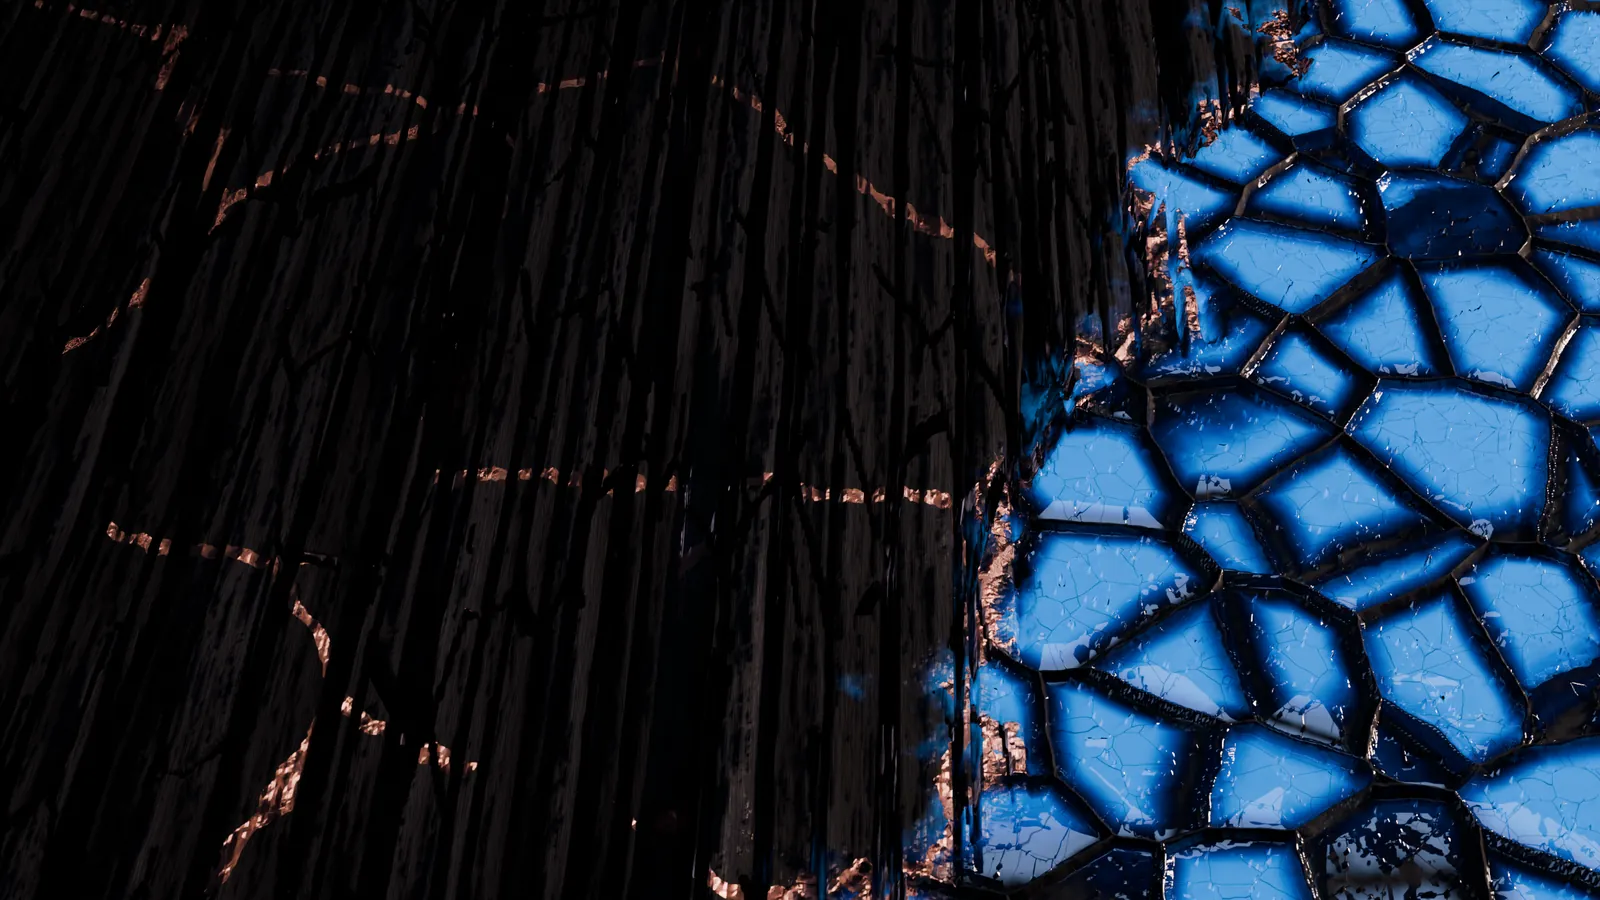
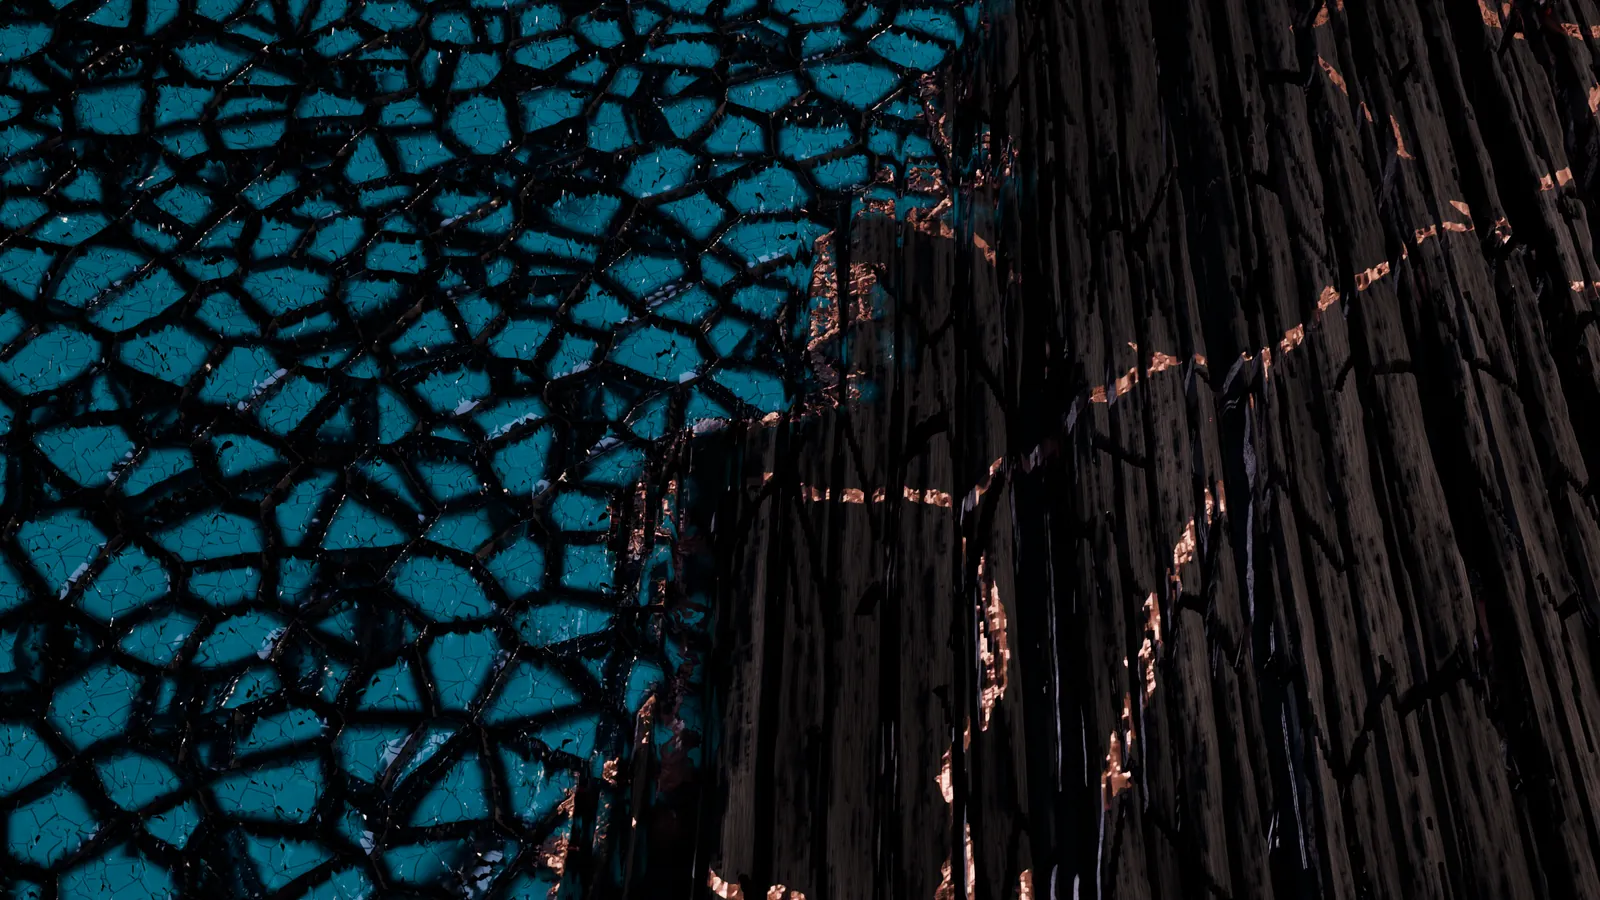
Pierwszy ekran jak wzór Daniela: mozaika żywicy po lewej, kora z kintsugi po prawej; lżejsze przyciemnienie (biel 9,2:1, róż. złoto 4,8:1)
Claude-Session: https://claude.ai/code/session_01CUrTUUWPAyYhZYbknifSxY

diff --git a/css/style.css b/css/style.css
@@ -312,10 +312,10 @@ section { padding: 96px max(16px, calc((100% - var(--szer)) / 2)); }
    Łupek i kora, niebieska żywica świecąca jak lawa, krawędzie w różowym złocie. Tekst po lewej na przyciemnieniu,
    karta obrazu przezroczysta (render jest obrazem), plakietka „Image de synthèse” zostaje. */
 .hero { position: relative; isolation: isolate;
-  background: #05080F url(../img/materialy/kora-3d-pc-1600.webp) 70% 50% / cover no-repeat; }
+  background: #05080F url(../img/materialy/kora-3d-pc-1600.webp) 50% 50% / cover no-repeat; }
 @media (min-width: 1601px) { .hero { background-image: url(../img/materialy/kora-3d-pc.webp); } }
 .hero::before { content: ''; position: absolute; inset: 0; z-index: -1; pointer-events: none;
-  background: linear-gradient(90deg, rgba(5,8,15,.94) 0%, rgba(5,8,15,.86) 34%, rgba(5,8,15,.35) 58%, rgba(5,8,15,0) 75%); }
+  background: linear-gradient(90deg, rgba(5,8,15,.72) 0%, rgba(5,8,15,.66) 38%, rgba(5,8,15,.25) 58%, rgba(5,8,15,0) 72%); }
 .hero .hero-obraz { background: none; border: 0; }
 @media (max-width: 900px) {
   .hero { background: #05080F url(../img/materialy/kora-3d-tel.webp) 50% 0 / 100% auto no-repeat; }

diff --git a/CLAUDE.md b/CLAUDE.md
@@ -17,7 +17,7 @@ Brakujące dane = dane TEST w jednym miejscu: `js/dane.js`. `npm run sprawdz-pub
   etykiety sekcji, podkreślenie języka i menu, ramki, obwódki przycisków (też Appeler/WhatsApp na telefonie), główny
   przycisk (napis w błękicie). Na jasnym tle różowe złoto jako tekst `#8C4F58`. Wcześniejsze: czarny mat (D), welur,
   Carrara, oliwka odrzucone; porównania w `projekt/`. Blok na końcu `css/style.css`.
-- **Pierwszy ekran = render 3D z RTX Daniela** (03.10.2026): kora czarna jak węgiel z liniami kintsugi z różowego złota, po prawej mozaika niebieskiej żywicy w czarnych spękaniach (`lupek_kora.py`, `img/materialy/kora-3d-*.webp`); wcześniej: łupek, niebieska żywica jak lawa, krawędzie
+- **Pierwszy ekran = render 3D z RTX Daniela** (03.10.2026): jak wzór Daniela: po lewej mozaika ciemnej turkusowo-niebieskiej żywicy w gęstych czarnych spękaniach (pod tekstem, przyciemnienie .72), po prawej kora czarna jak węgiel z kintsugi z różowego złota (`lupek_kora.py`, `img/materialy/kora-3d-*.webp`); wcześniej: łupek, niebieska żywica jak lawa, krawędzie
   w różowym złocie. Scena: `narzedzia/blender/lupek_scena.py` (Blender Cycles, bez AI), render na RTX 5080 przez
   `narzedzia/blender/render_rtx.ps1`; na stronie webp w `img/materialy/lupek-3d-*.webp`, z plakietką „Image de synthèse”.
   Desktop Commander na komputerze Daniela: `npx @wonderwhy-er/desktop-commander@latest remote` (w cmd, okno otwarte).
